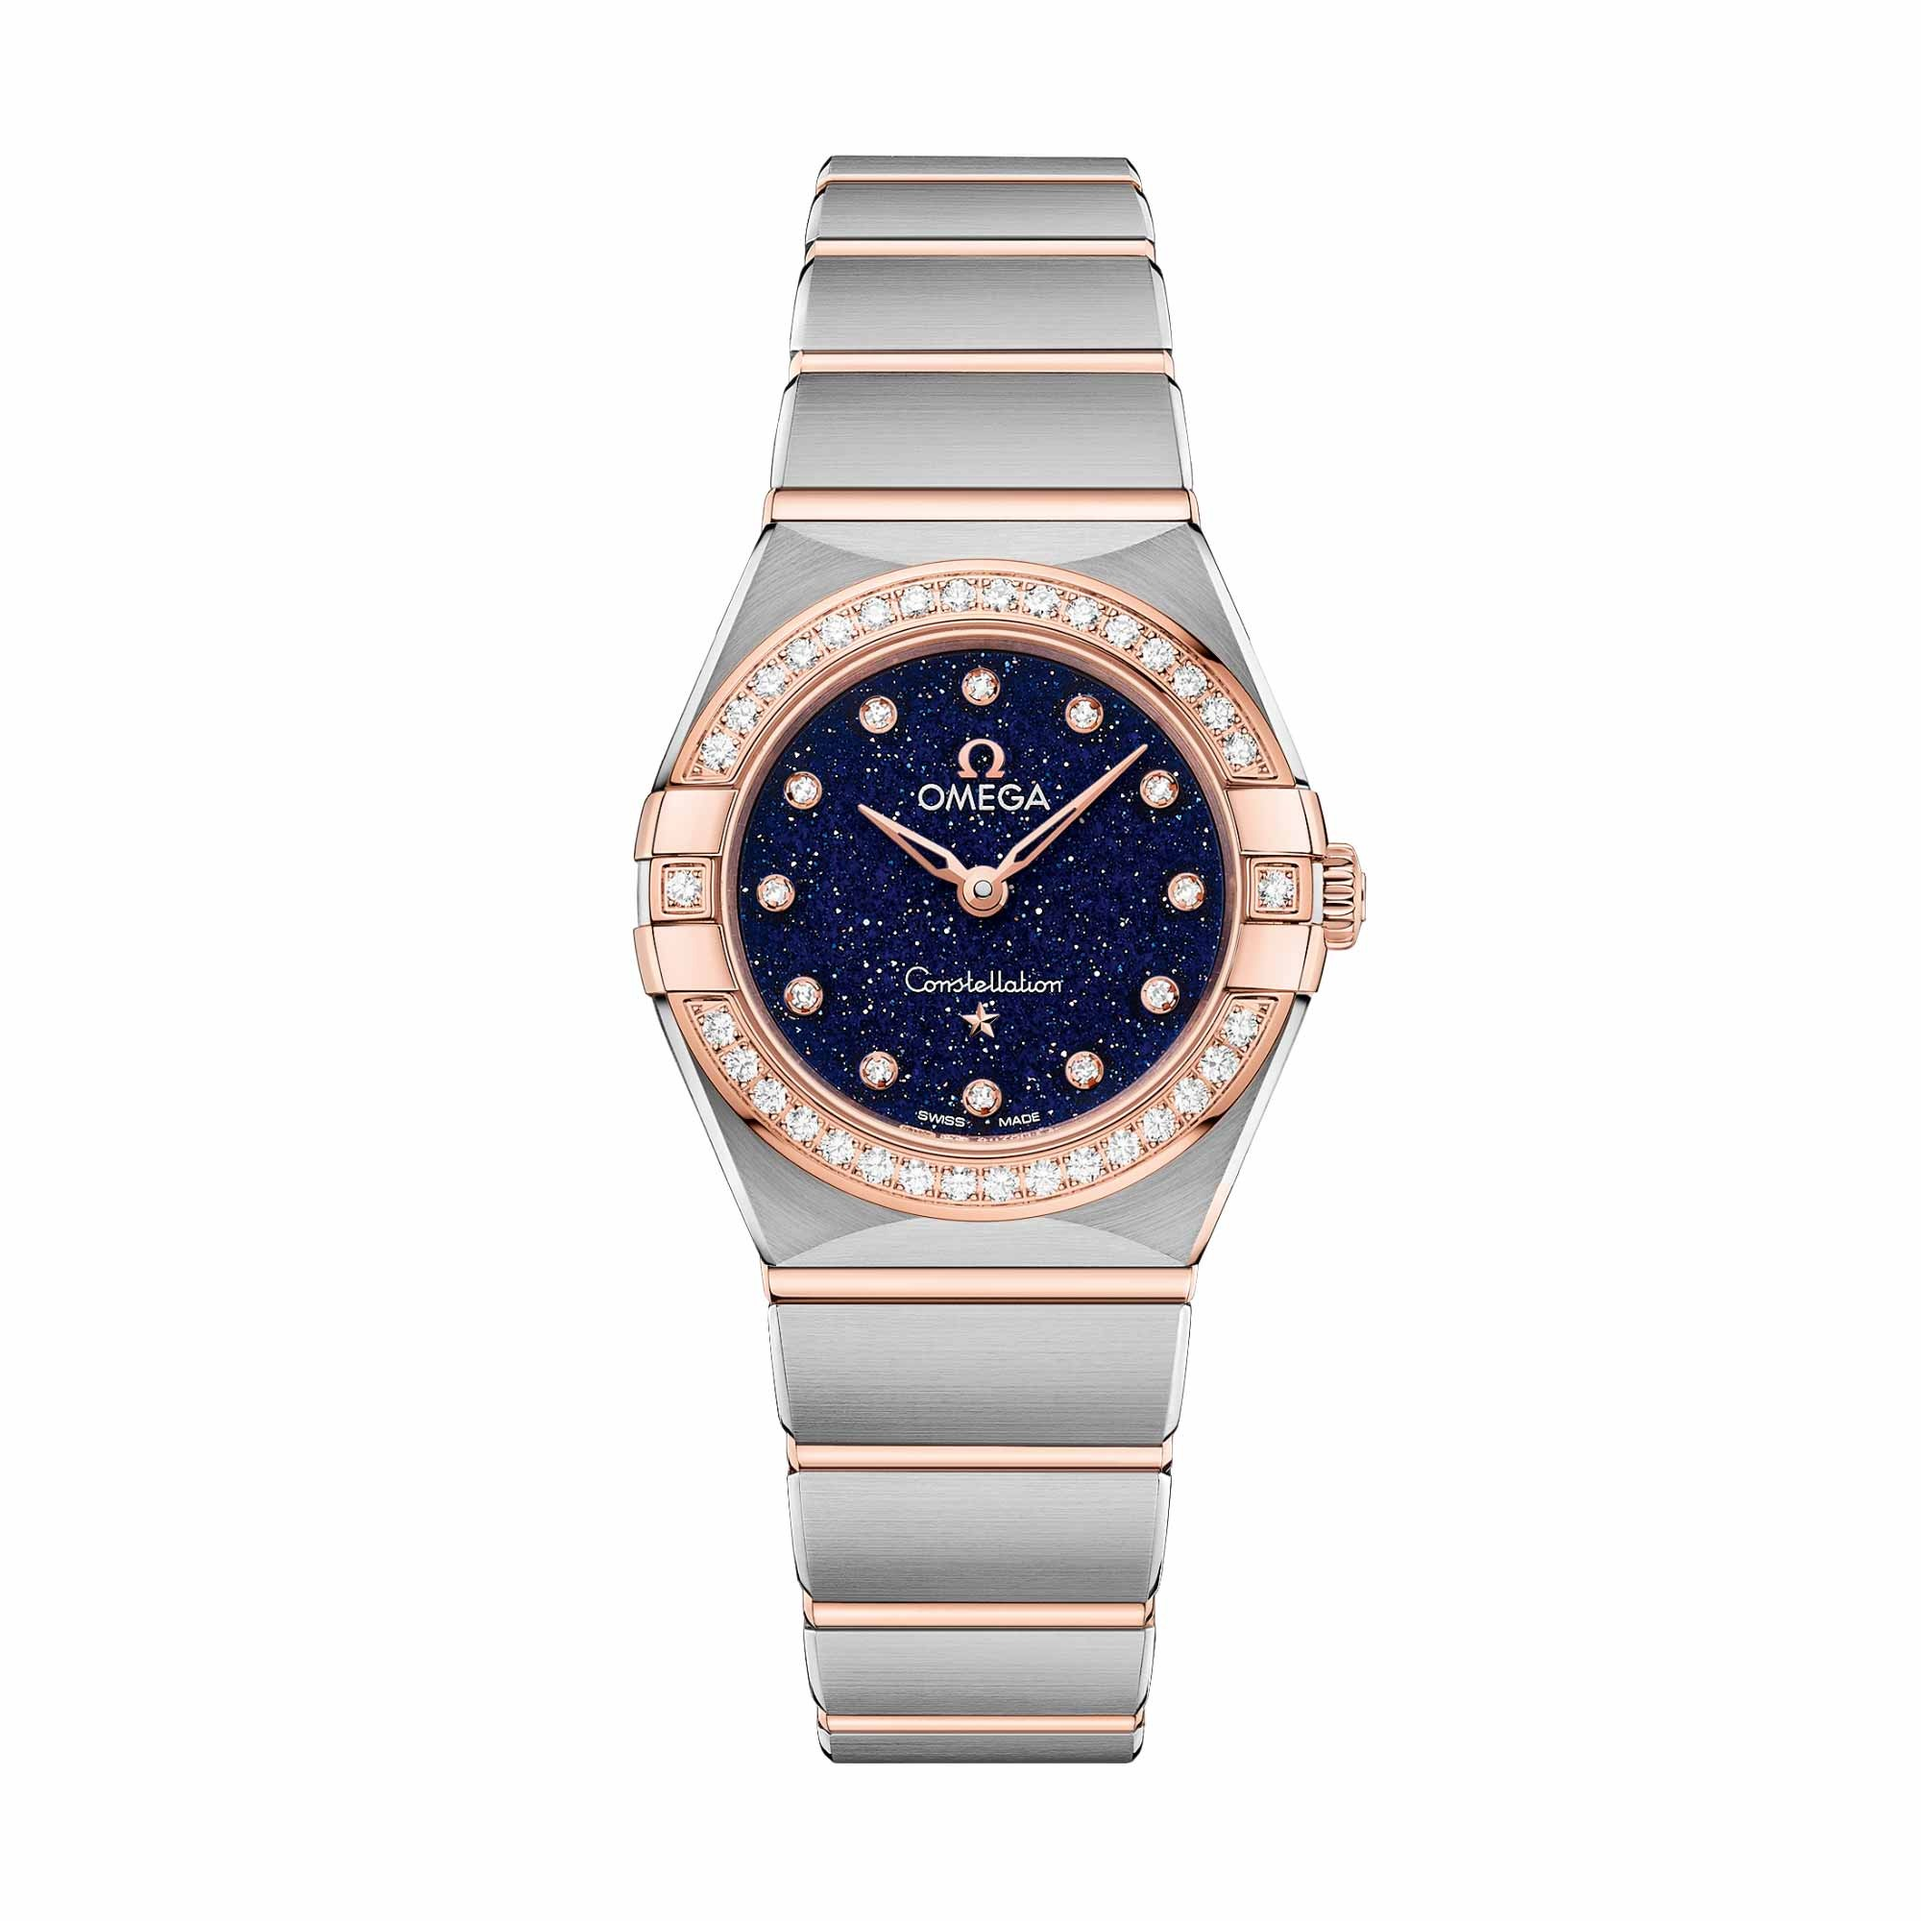
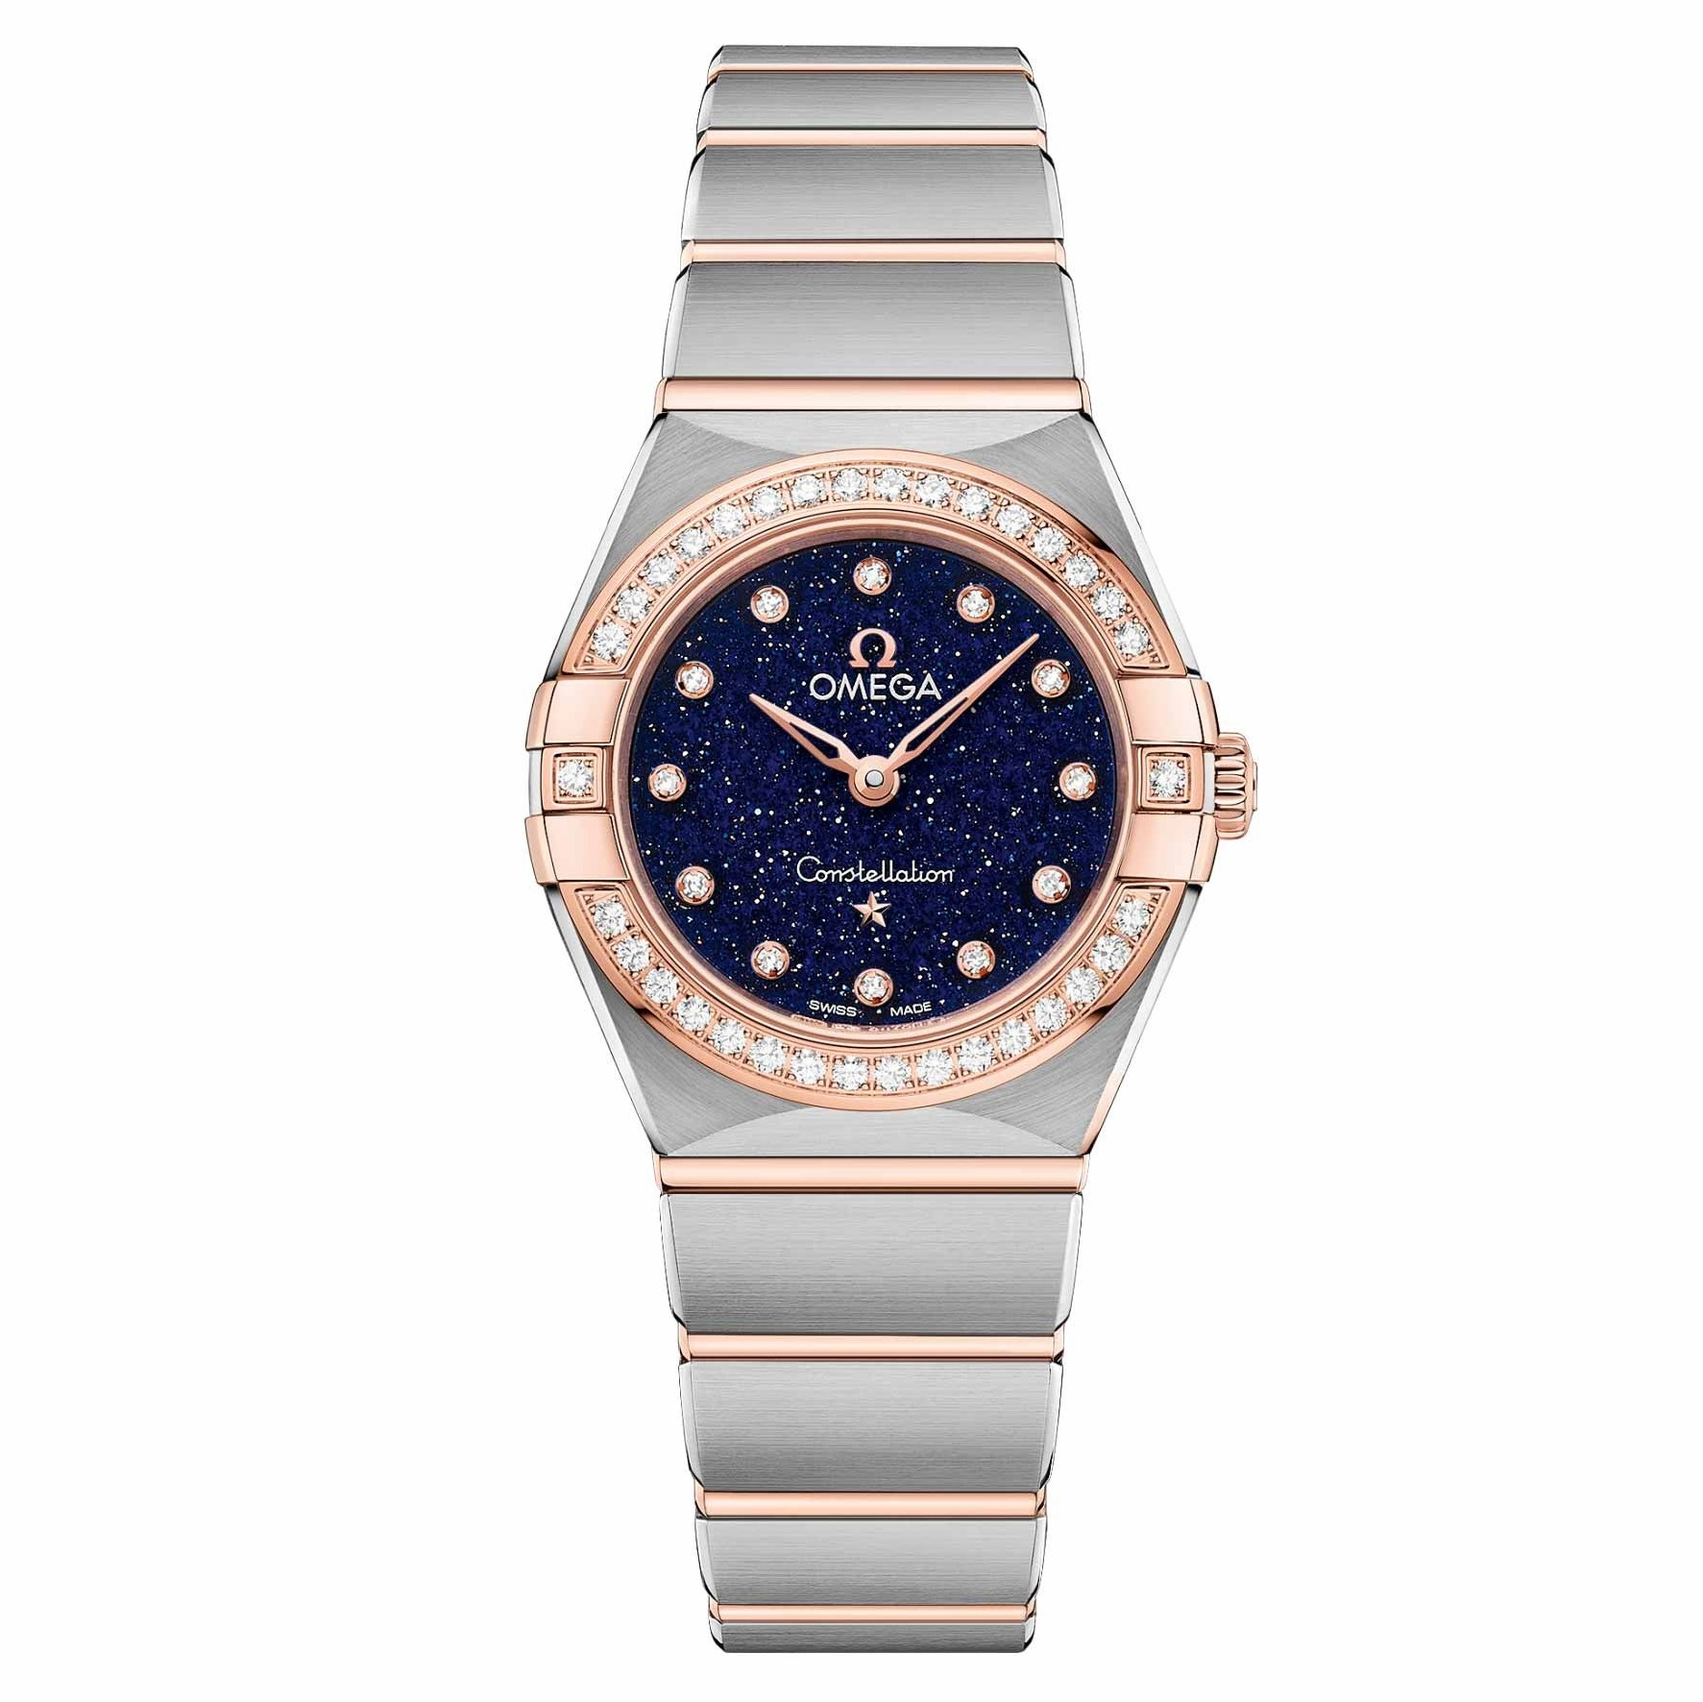
Reformat img and fix interface

Changed region(s): [[0.3102, 0.0, 0.7445, 0.9932]]

diff --git a/css/header.css b/css/header.css
@@ -76,17 +76,17 @@ ul.dc_mm-orange li a {
     min-width: 190px;
 }
 
-::-webkit-input-placeholder {
+input[id^="search_header"]::-webkit-input-placeholder {
     /* Edge */
     color: rgb(255, 255, 255);
 }
 
-:-ms-input-placeholder {
+input[id^="search_header"]:-ms-input-placeholder {
     /* Internet Explorer 10-11 */
     color: rgb(255, 255, 255);
 }
 
-::placeholder {
+input[id^="search_header"]::placeholder {
     color: rgb(255, 255, 255);
 }
 
@@ -95,6 +95,10 @@ ul.dc_mm-orange li a {
         width: 86%;
         padding: 0 2%;
     }
+}
+
+#search_header {
+    color: white;
 }
 
 @media only screen and (max-width: 1024px) {
@@ -138,3 +142,12 @@ ul.dc_mm-orange li a {
     padding-top: 25px;
 }
 
+@media only screen and (max-width: 640px){
+    .shopping_cart {
+        width: 27.66%;
+        margin-left: 300px;
+    }
+    .header_in_menu{
+        width: 100%;
+    }
+    }

diff --git a/css/style.css b/css/style.css
@@ -127,7 +127,7 @@ body{
 	position:relative;
 	margin-left:175px;
 	margin-top:20px;
-	background: url(../images/cart.png) 0 0 no-repeat;
+	/* background: url(../images/cart.png) 0 0 no-repeat; */
 	z-index: 99;
 	-webkit-box-sizing: border-box;
 	-moz-box-sizing: border-box;
@@ -2720,3 +2720,16 @@ footer p {
     height: 20px;
     text-align: center;
 }
+
+span.error {
+    display: inline-block;
+    margin: 15px 0px;
+    width: 100%;
+    text-align: center;
+}
+
+.images_1_of_2 img {
+    height: 160px;
+    width: auto;
+}
+

diff --git a/index.php b/index.php
@@ -1,73 +1,77 @@
 <?php
-		include 'inc/header.php';
-		include 'inc/slider.php';
+include 'inc/header.php';
+include 'inc/slider.php';
 ?>
 <style>
-	.menu{
+	.menu {
 		position: absolute;
-    z-index: 100;
-    width: 76%;
+		z-index: 100;
+		width: 76%;
 	}
+    @media only screen and (max-width: 1024px){
+	.menu {
+    width: 100%;
+    padding: 0 2%;
+	position: initial;
+	}
+}
+
+}
 </style>
- <div class="main">
-    <div class="content">
-    	<div class="content_top">
-    		<div class="heading">
-    			<h3>Sản phẩm bán chạy nhất</h3>
-    		</div>
-    		<div class="clear"></div>
-    	</div>
-	      <div class="section group">
-	      	<?php
-	      		$product_fea = $prd->getproduct_featured(); 
-	      		if($product_fea)
-	      		{
-	      			while($result_fea = $product_fea->fetch_assoc()) 
-	      			{
-
-	      	?>
-				<div class="grid_1_of_4 images_1_of_4">
-					 <a href="details.php?prdid=<?php echo $result_fea['prd_Id']?>"><img src="admin/uploads/<?php echo $result_fea['prd_Image']?>" alt=""/></a>
-					 <h2><?php echo $fm->textShorten($result_fea['prd_Name'],30) ?></h2>
-					 <p><span class="price"><?php echo $fm->format_money($result_fea['prd_Price'])." VNĐ" ?></span></p>
-				     <div class="button"><span><a href="details.php?prdid=<?php echo $result_fea['prd_Id'] ?>" class="details">Chi tiết sản phẩm</a></span></div>
-				</div>	
-				<?php 
-						}
-					}	
-				?>			
+<div class="main">
+	<div class="content">
+		<div class="content_top">
+			<div class="heading">
+				<h3>Sản phẩm bán chạy nhất</h3>
 			</div>
-			<div class="content_bottom">
-    		<div class="heading">
-    		<h3>Sản Phẩm Mới</h3>
-    		</div>
-    		<div class="clear"></div>
-    	</div>
-			<div class="section group">
-				<?php
-	      		$product_new = $prd->getproduct_new(); 
-	      		if($product_new)
-	      		{
-	      			while($result_new = $product_new->fetch_assoc())
-	      			{
+			<div class="clear"></div>
+		</div>
+		<div class="section group">
+			<?php
+			$product_fea = $prd->getproduct_featured();
+			if ($product_fea) {
+				while ($result_fea = $product_fea->fetch_assoc()) {
 
-	      	?> 
-				<div class="grid_1_of_4 images_1_of_4">
-					 <a href="details.php?prdid=<?php echo $result_new['prd_Id']?>"><img src="admin/uploads/<?php echo $result_new['prd_Image']?>" alt="" /></a> 
-					 <h2><?php echo $result_new['prd_Name'] ?></h2>
-					 <p><span class="price"><?php echo $fm->format_money($result_new['prd_Price'])." VNĐ" ?></span></p>
-				     <div class="button"><span><a href="details.php?prdid=<?php echo $result_new['prd_Id'] ?>" class="details">Chi tiết sản phẩm</a></span></div>
-				</div>	
-				<?php 
-						}
-					}	
-				?>						
+			?>
+					<div class="grid_1_of_4 images_1_of_4">
+						<a href="details.php?prdid=<?php echo $result_fea['prd_Id'] ?>"><img src="admin/uploads/<?php echo $result_fea['prd_Image'] ?>" alt="" /></a>
+						<h2><?php echo $fm->textShorten($result_fea['prd_Name'], 30) ?></h2>
+						<p><span class="price"><?php echo $fm->format_money($result_fea['prd_Price']) . " VNĐ" ?></span></p>
+						<div class="button"><span><a href="details.php?prdid=<?php echo $result_fea['prd_Id'] ?>" class="details">Chi tiết sản phẩm</a></span></div>
+					</div>
+			<?php
+				}
+			}
+			?>
+		</div>
+		<div class="content_bottom">
+			<div class="heading">
+				<h3>Sản Phẩm Mới</h3>
 			</div>
+			<div class="clear"></div>
+		</div>
+		<div class="section group">
+			<?php
+			$product_new = $prd->getproduct_new();
+			if ($product_new) {
+				while ($result_new = $product_new->fetch_assoc()) {
 
-    </div>
- </div>
+			?>
+					<div class="grid_1_of_4 images_1_of_4">
+						<a href="details.php?prdid=<?php echo $result_new['prd_Id'] ?>"><img src="admin/uploads/<?php echo $result_new['prd_Image'] ?>" alt="" /></a>
+						<h2><?php echo $result_new['prd_Name'] ?></h2>
+						<p><span class="price"><?php echo $fm->format_money($result_new['prd_Price']) . " VNĐ" ?></span></p>
+						<div class="button"><span><a href="details.php?prdid=<?php echo $result_new['prd_Id'] ?>" class="details">Chi tiết sản phẩm</a></span></div>
+					</div>
+			<?php
+				}
+			}
+			?>
+		</div>
+
+	</div>
+</div>
 
 <?php
-		include 'inc/footer.php';
+include 'inc/footer.php';
 ?>
-

diff --git a/login.php b/login.php
@@ -25,7 +25,7 @@
 
  <div class="main">
     <div class="content">
-    	 <div class="login_panel" style="height:350px; margin-left: 150px;">
+    	 <div class="login_panel" style="height:400px; margin-left: 150px;">
         	<h3 style="text-align: center;">Đăng nhập</h3>
         	<p style="text-align: center;">Nhập Email và mật khẩu:</p>
         	<form action="" method="POST">
@@ -42,7 +42,7 @@
     			</div>
             </form>
           </div>
-    	<div class="register_account" style="height:350px; width: 450px;">
+    	<div class="register_account" style="height:400px; width: 450px;">
     		<h3 style="text-align: center;">Đăng ký tài khoản</h3>
     		<form action="" method="POST" >
 		   			 <table>

diff --git a/inc/header.php b/inc/header.php
@@ -106,7 +106,7 @@
 			<div class="header_in_menu">
 				<div class="search_box">
 					<form action="search.php" method="POST">
-						<input type="text" name="keyword" placeholder="Tìm kiếm sản phẩm"><input type="hidden" name="search" value=""><input type="image" src="images/white-search.png" width="45">
+						<input type="text" id="search_header" name="keyword" placeholder="Tìm kiếm sản phẩm"><input type="hidden" name="search" value=""><input type="image" src="images/white-search.png" width="45">
 					</form>
 				</div>
 				<div class="shopping_cart">

diff --git a/helper/format.php b/helper/format.php
@@ -7,11 +7,12 @@ class Format{
     return date('F j, Y, g:i a', strtotime($date));
  }
 
-   public function textShorten($text, $limit = 400){
-      $text = $text. " ";
-      $text = substr($text, 0, $limit);
-      $text = substr($text, 0, strrpos($text, ' '));
-      $text = $text.".....";
+   public function textShorten($text, $limit = 400)
+   {
+      if (strlen($text) <= $limit) {
+      } else {
+         $text = substr($text, 0, $limit) . '...';
+      }
       return $text;
    }
 

diff --git a/inc/footer.php b/inc/footer.php
@@ -35,7 +35,7 @@
 <ul class="footer_ul_amrc">
     <li><a href="login.php">Đăng kí</a></li>
     <li><a href="cart.php">Xem giỏ hàng</a></li>
-    <li><a href="wishlist.php">Sản phẩm yêu thích</a></li>
+    <li><a href="favorite.php">Sản phẩm yêu thích</a></li>
     <li><a href="profile.php">Chi tiết tài khoản</a></li>
     <li><a href="contact.php">Liên hệ</a></li>
 </ul>

diff --git a/inc/slider.php b/inc/slider.php
@@ -13,7 +13,7 @@
 
 
 			?>
-					<li><img height="600px" src="admin/uploads/<?php echo $result['slide_Image'] ?>" alt="" /><span class="flex-caption">Write something here</span></a></li>
+					<li><img height="600px" src="admin/uploads/<?php echo $result['slide_Image'] ?>" alt="" /><span class="flex-caption"></span></a></li>
 			<?php
 				}
 			}
